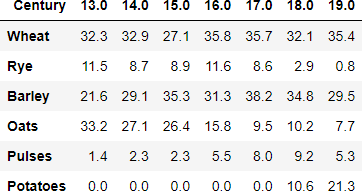
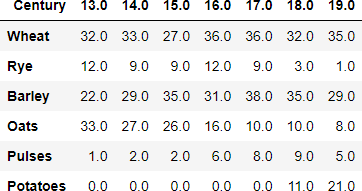
Tabela porcentagem por século em todas as análises

diff --git a/Analises/Livestock_Production_England.py b/Analises/Livestock_Production_England.py
@@ -1,6 +1,7 @@
 import pandas as pd
 import matplotlib.pyplot as plt
 import seaborn as sn
+import dataframe_image as dfi
 from Calculate_Century import find_century
 
 #Recebendo dados do google sheets
@@ -123,6 +124,9 @@ plt.ylabel('Percentage')
 plt.suptitle("Livestock products production comparatade")
 plt.tight_layout()
 plt.savefig(Pasta_Salvar + 'Livestock products production comparatade.png')
+
+dfi.export(dados_Seculo_pct.apply(pd.to_numeric, errors='coerce').round(1).T, Pasta_Salvar + 'Livestock Production for Century.png')
+plt.close()
 
 # Calculando a matriz de correlação agri_eng e Population of England
 pecuaria_eng['Population of England'] = pd.DataFrame(pd.read_excel(URL, sheet_name = 'A2. Pop of Eng & GB 1086-1870', skiprows = range(0, 190), usecols = 'B'))

diff --git a/Analises/Number_Animals_England.py b/Analises/Number_Animals_England.py
@@ -1,6 +1,7 @@
 import pandas as pd
 import matplotlib.pyplot as plt
 import seaborn as sn
+import dataframe_image as dfi
 from Calculate_Century import find_century
 
 #Recebendo dados do google sheets
@@ -75,6 +76,9 @@ plt.ylabel('Percentage')
 plt.suptitle("Number of animals Comparatade")
 plt.tight_layout()
 plt.savefig(Pasta_Salvar + 'Number of animals Comparatade.png')
+plt.close()
+
+dfi.export(dados_Seculo_pct.apply(pd.to_numeric, errors='coerce').round(1).T, Pasta_Salvar + 'Number Animals for Century.png')
 plt.close()
 
 # Calculando a matriz de correlação agri_eng e Population of England

diff --git a/Analises/Agriculture_England.py b/Analises/Agriculture_England.py
@@ -92,7 +92,7 @@ plt.tight_layout()
 plt.savefig(Pasta_Salvar + 'Production Agriculture Comparatade.png')
 plt.close()
 
-dfi.export(dados_Seculo_pct.apply(pd.to_numeric, errors='coerce').round(1).T, Pasta_Salvar + 'Agriculture for Century.png')
+dfi.export(dados_Seculo_pct.apply(pd.to_numeric, errors='coerce').round().T, Pasta_Salvar + 'Agriculture for Century.png')
 plt.close()
 
 # Calculando a matriz de correlação agri_eng e Population of England
